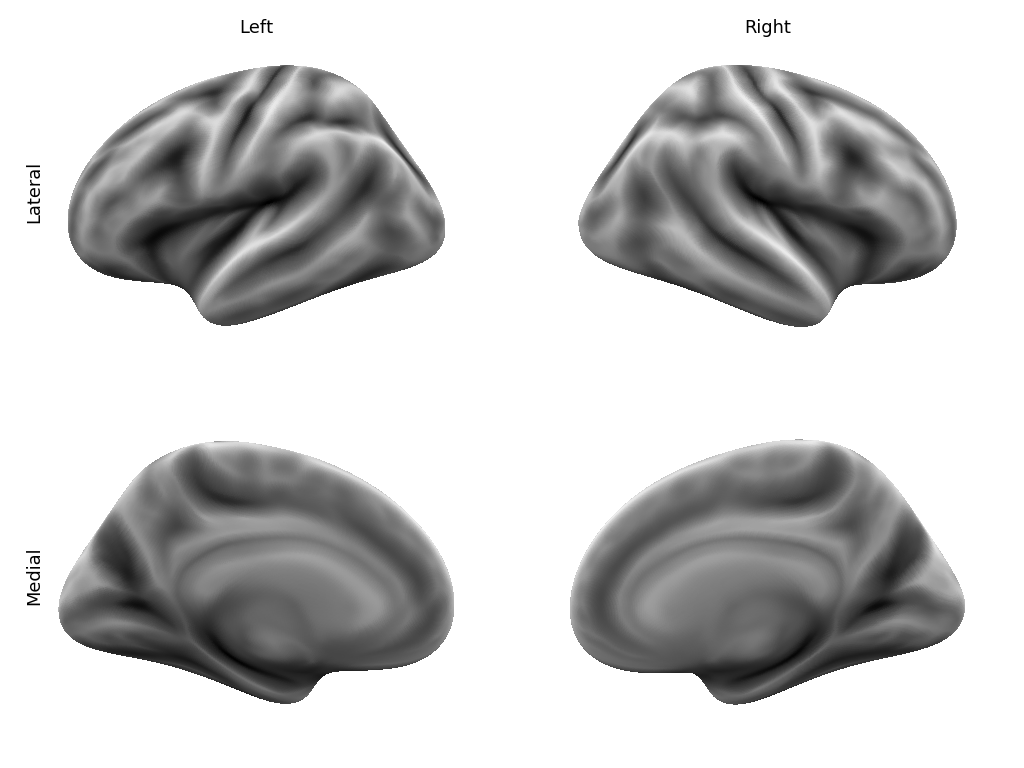
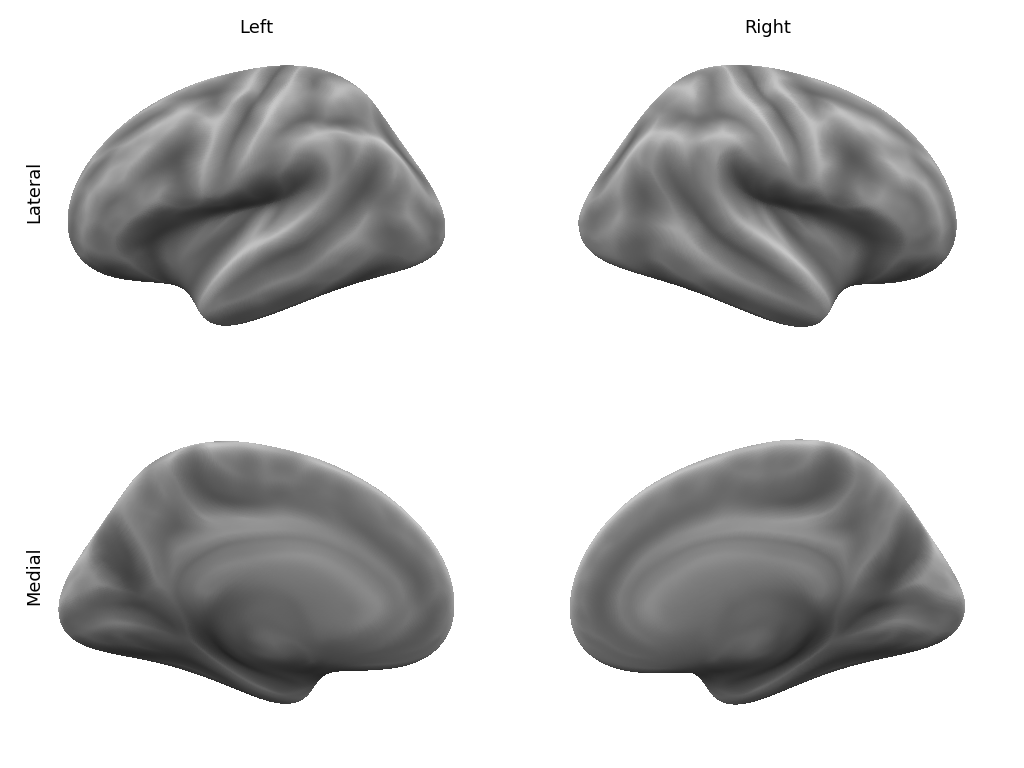
a narrower grey colormap is used for sulci

diff --git a/brain4views.py b/brain4views.py
@@ -188,7 +188,9 @@ def plot_surf4(meshes, overlays=None,
 
         ##################################
         # assign greyscale colormap to sulcal map faces
-        face_colors = plt.get_cmap('Greys')(sulc_faces)
+        greys = plt.get_cmap('Greys', 512)
+        greys_narrow = ListedColormap(greys(np.linspace(0.25, 0.75, 256)))
+        face_colors = greys_narrow(sulc_faces)
 
         # Get indices of faces within the cortex
         if ctx_masks is None:

diff --git a/example_plots.py b/example_plots.py
@@ -36,7 +36,7 @@ plot_surf4([lh_surf, rh_surf],
            sulc_maps=[lh_sulc, rh_sulc],
            ctx_masks=[lh_mask, rh_mask],
            output_file='human_sulcal_plot.png')
-
+'''
 # plot cortical thickness
 plot_surf4([lh_surf, rh_surf],
            overlays=[lh_thick, rh_thick],
@@ -75,3 +75,4 @@ plot_surf4_parcellation(
 
 elapsed = time.time() - start
 print('surfaces rendered in {0:.2f} s'.format(elapsed))
+'''
